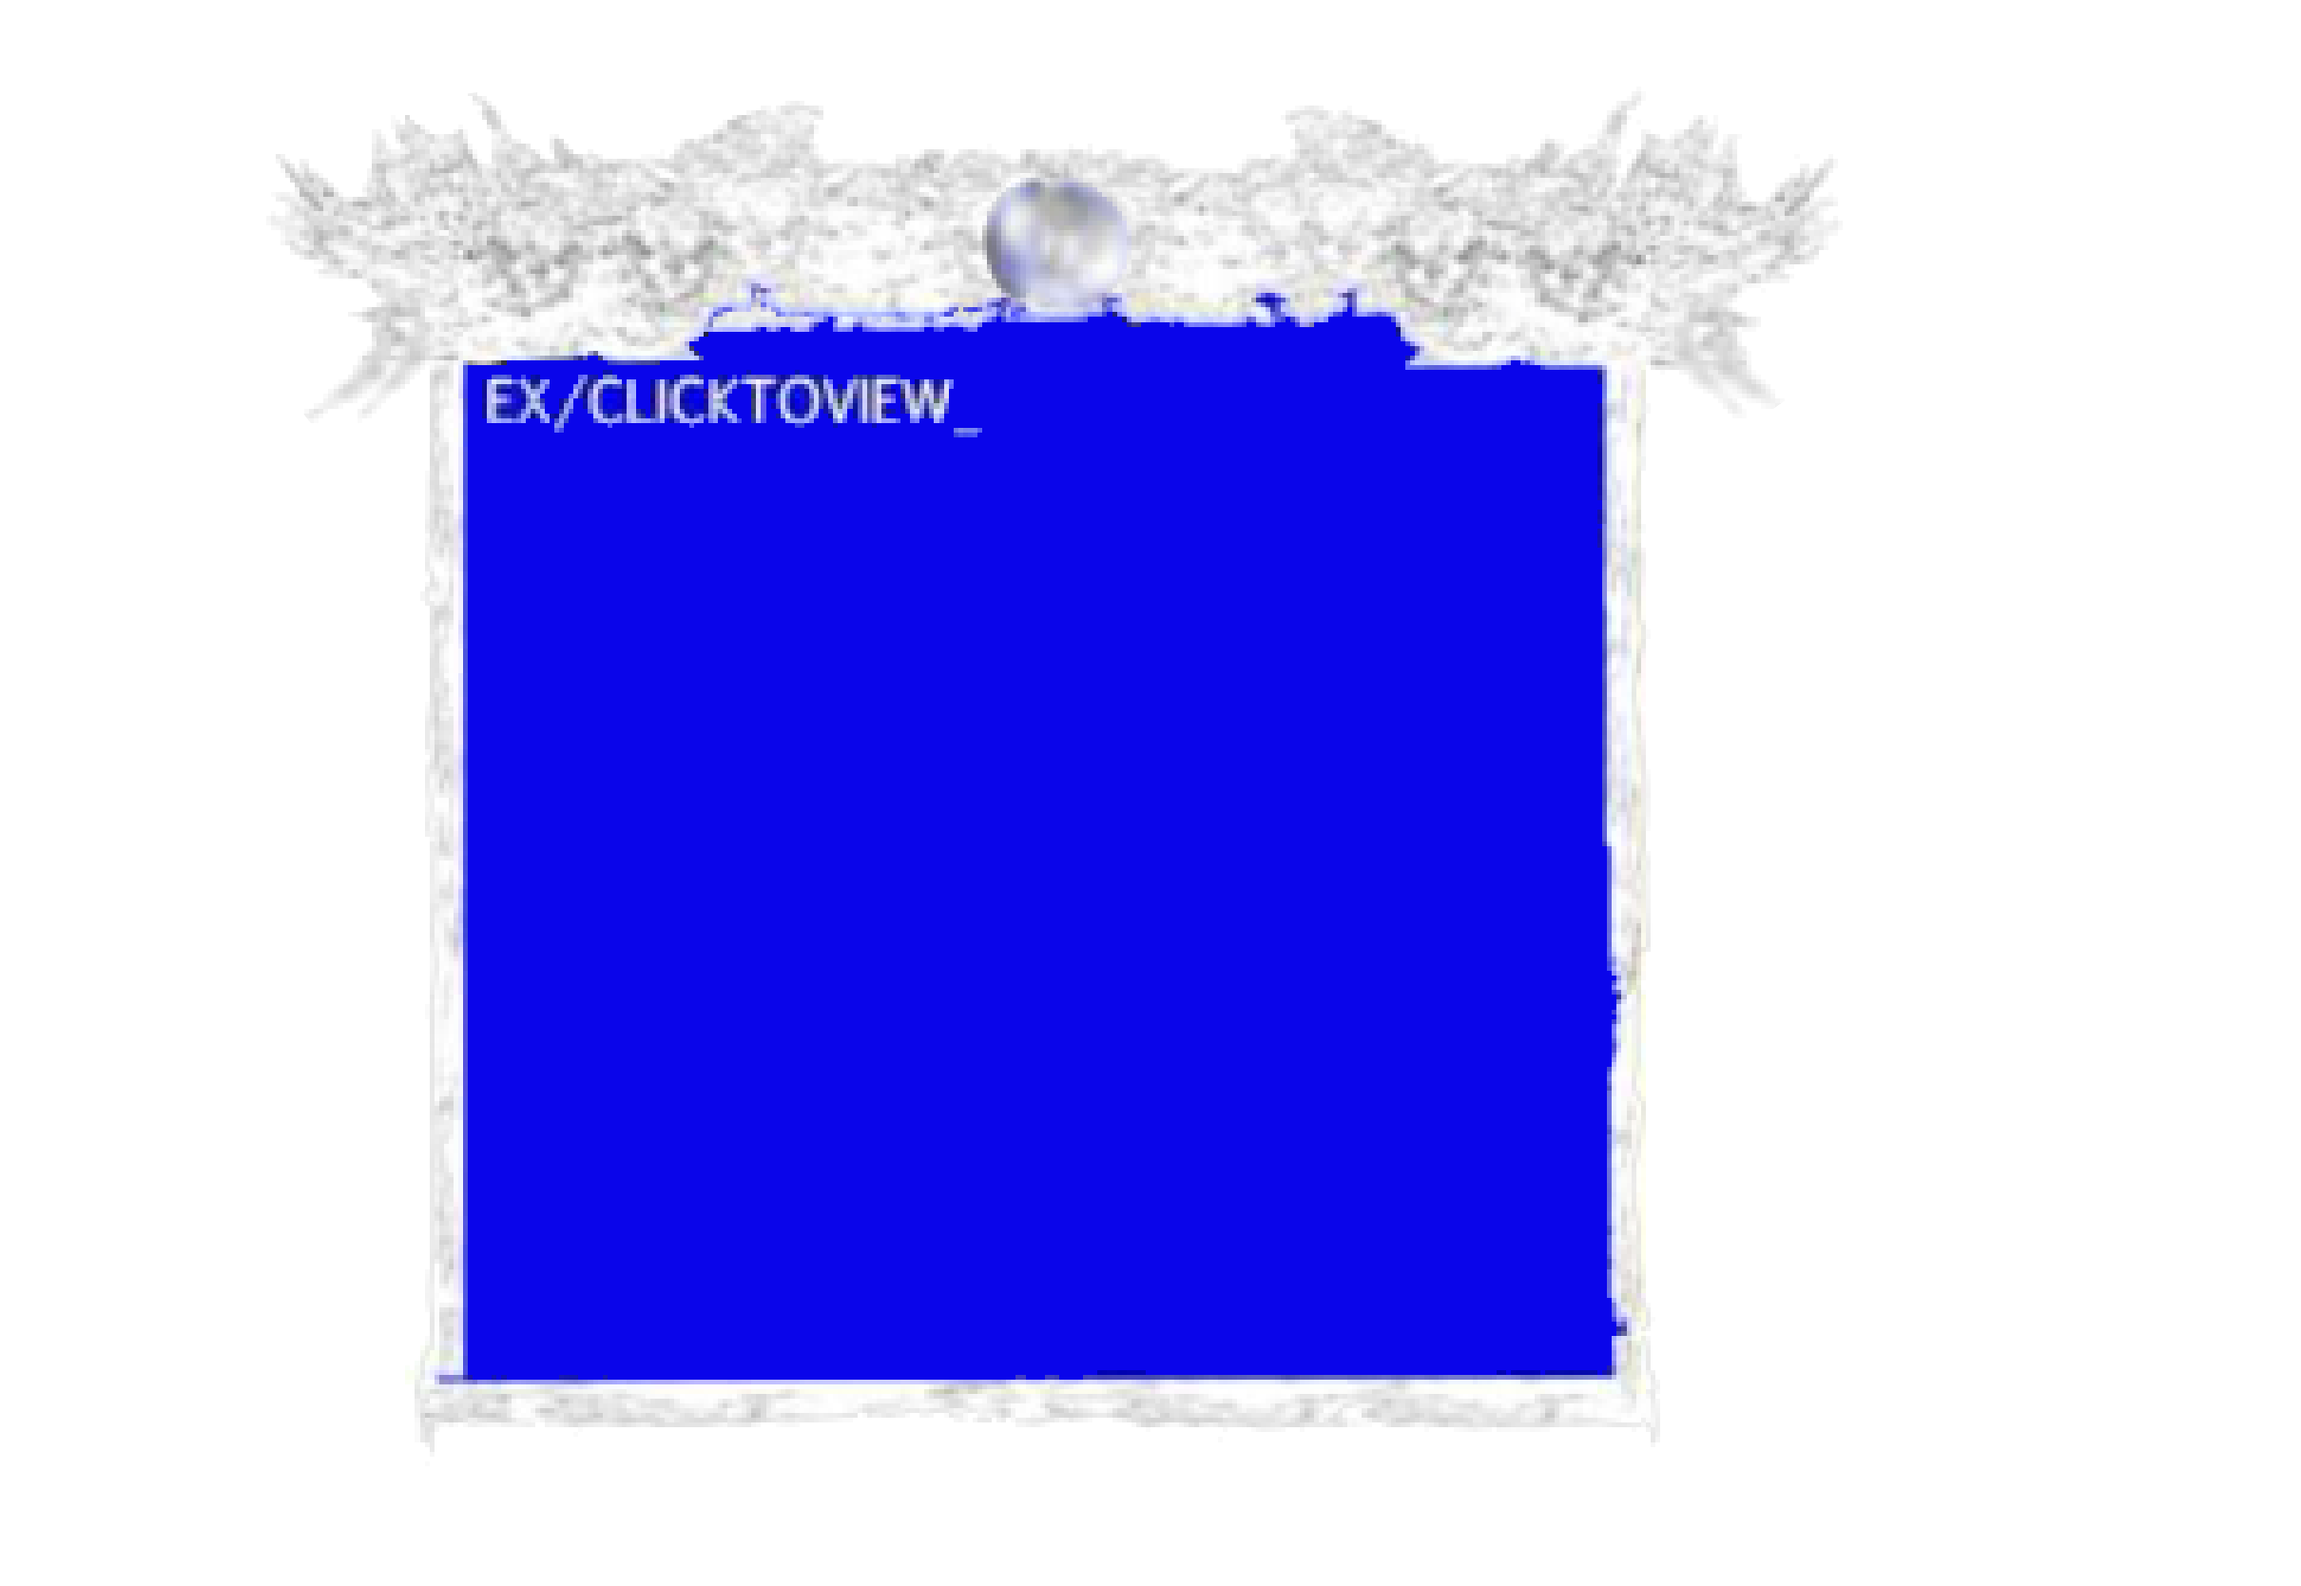
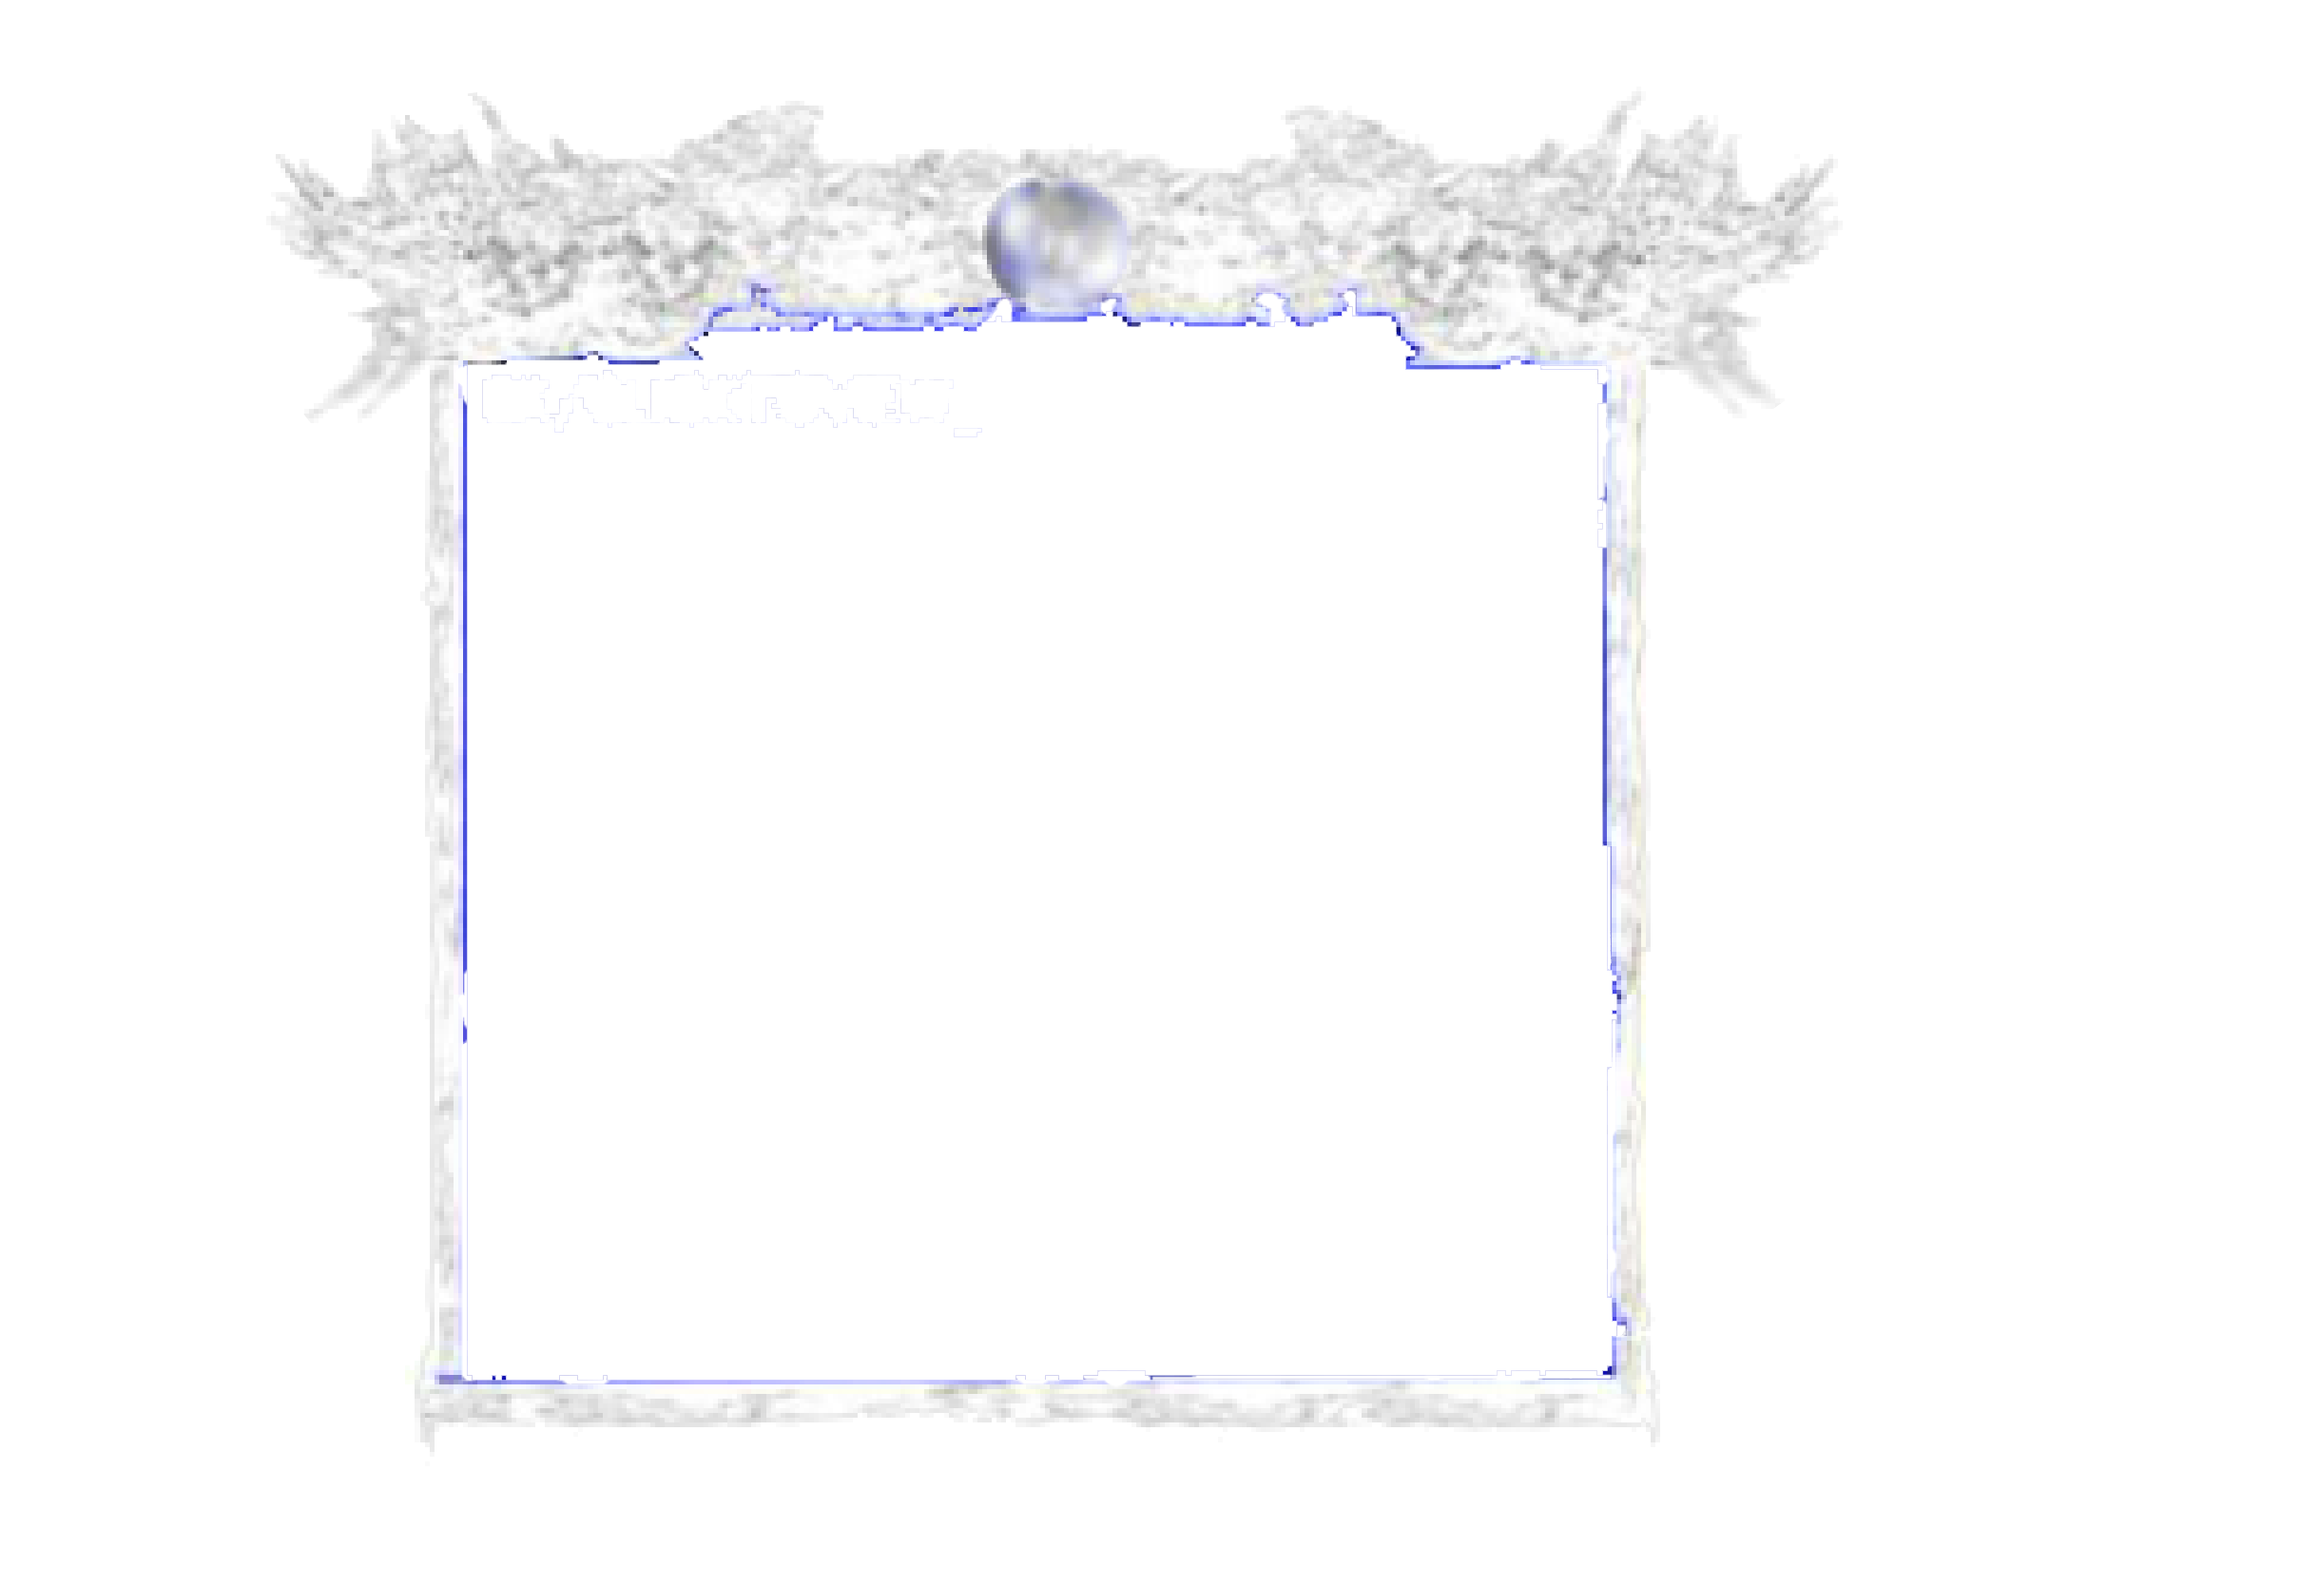
Use correct frame image; make frame a constant; layout tuning

diff --git a/main.js b/main.js
@@ -1,4 +1,5 @@
 /* ---------- DATA ---------- */
+const FRAME_SRC = 'assets/img/product_tab(1).png'; // <- match the exact filename/case
 const PRODUCTS = Array.from({ length: 20 }).map((_, i) => ({
   id: `prod-${i+1}`,
   title: `Object #${i+1}`,
@@ -32,9 +33,9 @@ function renderGrid(){
       el.className = 'product-tab';
       el.dataset.id = item.id;
       el.innerHTML = `
-        <img class="frame" src="assets/img/product_tab(1).png" alt="">
-        <div class="tab__content" title="${item.title}"></div>
-        <button class="tab__orb" aria-label="Details"></button>
+  <img class="frame" src="${FRAME_SRC}" alt="">
+  <div class="tab__content" title="${item.title}"></div>
+  <button class="tab__orb" aria-label="Details"></button>
       `;
 
       // click tile -> expand

diff --git a/index.html b/index.html
@@ -58,12 +58,12 @@
   <main class="gallery-wrap">
     <!-- Top SHOWROOM tab (bigger) -->
     <section class="tab tab--showroom" data-id="showroom">
-      <img class="frame" src="assets/img/product_tab(1).png" alt="">
-      <div class="tab__content">
-        <span class="tab__label gothic">SHOWROOM</span>
-      </div>
-      <button class="tab__orb" aria-label="Showroom details"></button>
-    </section>
+  <img class="frame" src="assets/img/product_tab(1).png" alt="">
+  <div class="tab__content">
+    <span class="tab__label gothic">SHOWROOM</span>
+  </div>
+  <button class="tab__orb" aria-label="Showroom details"></button>
+</section>
 
     <!-- Product grid container (2 columns x 4 rows visible) -->
     <section class="tab-grid" id="tabGrid"></section>

diff --git a/style.css b/style.css
@@ -1,12 +1,12 @@
 :root{
-  /* central column width that matches your mock */
+  /* central column width */
   --contentW: 760px;        /* tweak 720–820 until it feels perfect */
   --gap: 14px;
 
   /* element sizes */
-  --logoH: 120px;           /* bigger logo */
-  --showroomH: 140px;       /* shorter showroom strip */
-  --tile: 160px;            /* square product tile size (160–180 sweet spot) */
+  --logoH: 140px;           /* bigger logo */
+  --showroomH: 100px;       /* shorter showroom strip */
+  --tile: 150px;            /* square product tile size (160–180 sweet spot) */
 
   /* side windows */
   --sideW: 160px;           /* width of church windows */
